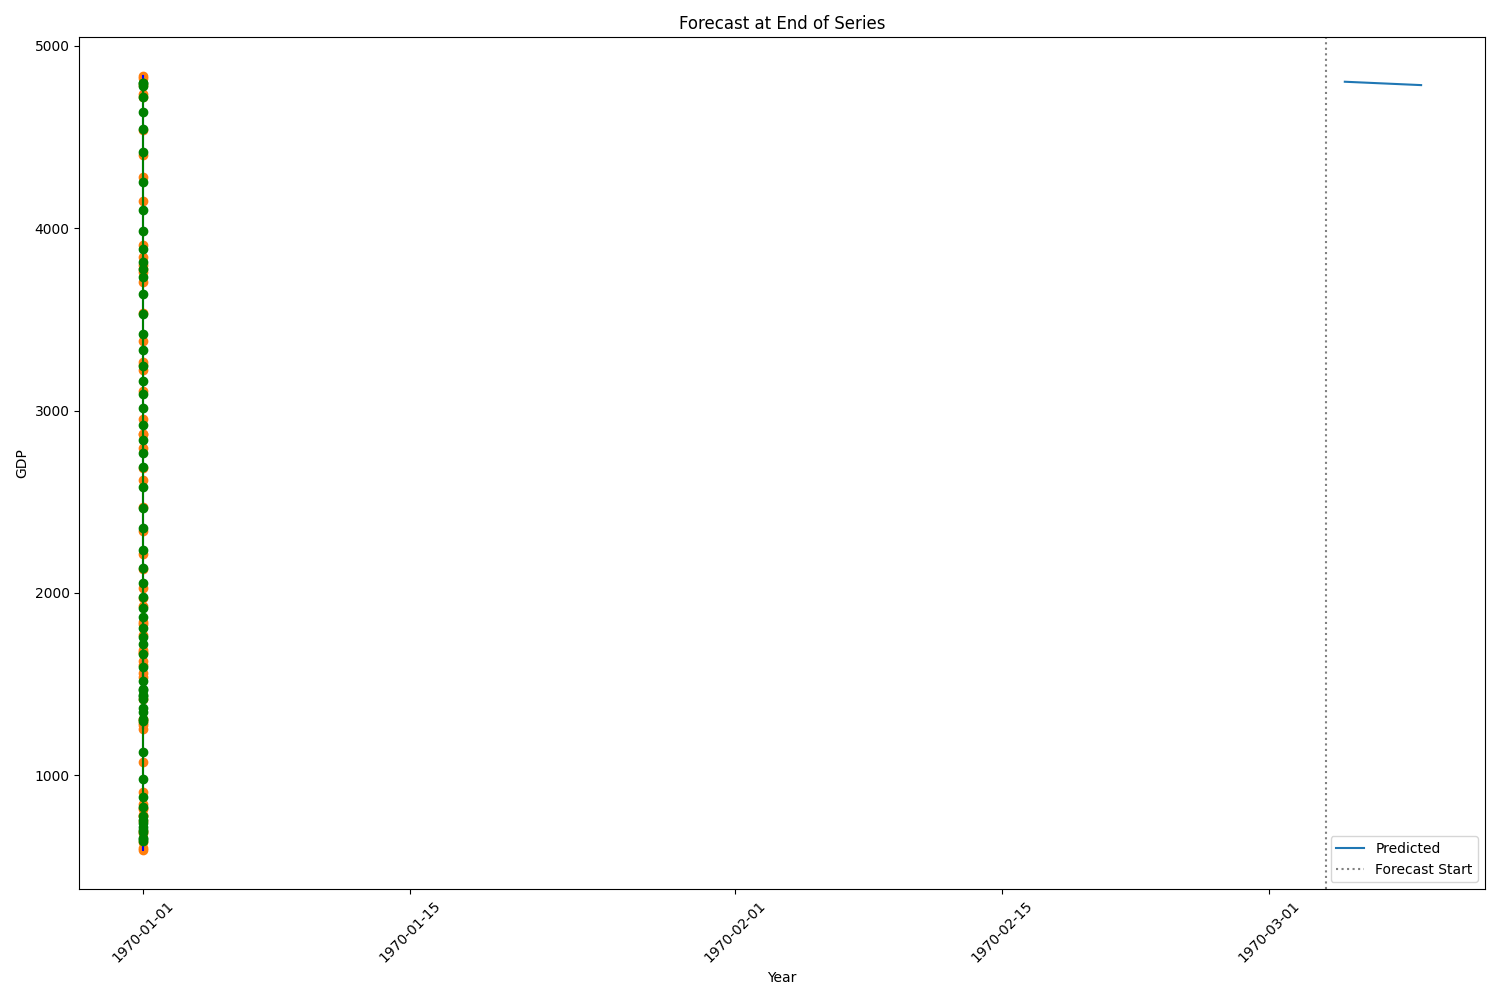
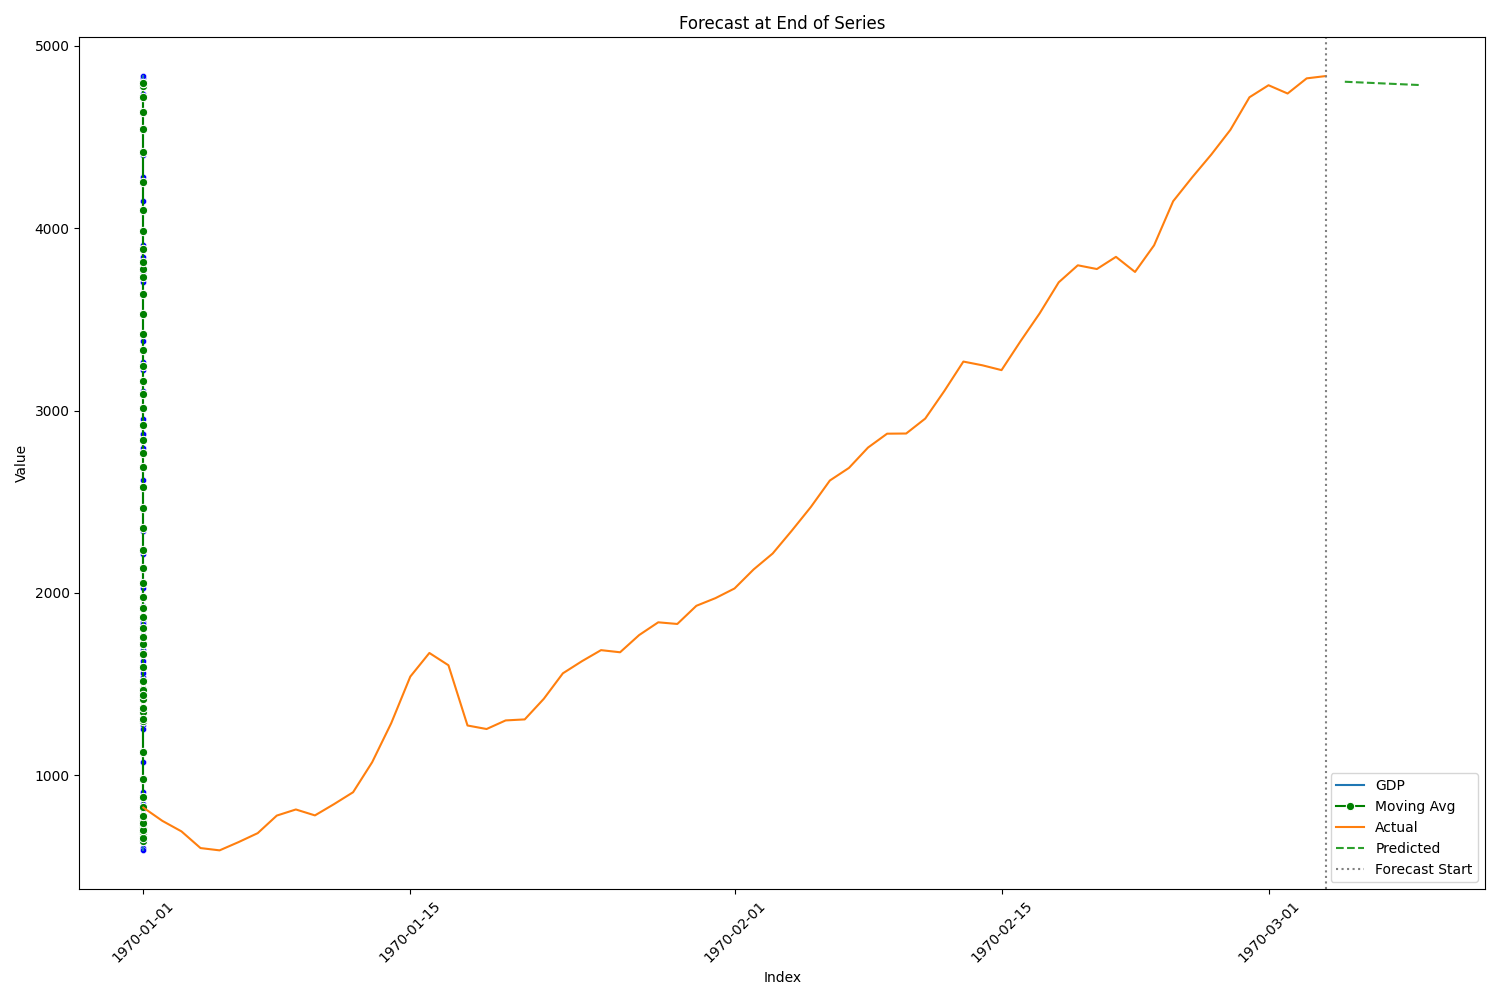
MAModelTracker

diff --git a/src/tsar/c02_statistical_univariate_modeling/r021a_ma_model.py b/src/tsar/c02_statistical_univariate_modeling/r021a_ma_model.py
@@ -240,98 +240,55 @@ class MAModelTracker:
         if show: plt.show()
 
     def plot_predictions_ma_model(self, model_ma: MAModelFMU, series: pd.Series, ax, nsteps: int = 5):
-        """
-        Plot predictions at the end of the actual series.
-
-        Parameters:
-            model_ma: A fitted MAModelFMU instance.
-            series: The actual data as a Series.
-            nsteps: Number of steps to simulate into the future.
-            show: Whether to immediately show the plot.
-        """
-        mvg_avg = series.rolling(
-            window=model_ma.window,
-            min_periods=1,
-            center=True
-        ).mean().ffill().bfill().interpolate()
-
+        """Forecast overlay using seaborn."""
         predictions = model_ma.simulate(
             nsteps=nsteps,
             start_time=series.index[-1],
             start_obs=series.iloc[-1]
         )
-        predictions_index = list(range(len(series.index), len(series.index) + nsteps))
-        predictions_series = pd.Series(predictions, index=predictions_index)
-        sns.lineplot(
-            x=predictions_series.index,
-            y=predictions_series.values,
-            label="Predicted",
-            ax=ax
-        )
-        plt.axvline(len(series) - 1, color='gray', linestyle=':', label='Forecast Start')
-        plt.title("Forecast at End of Series")
-        plt.xlabel("Year")
-        plt.ylabel("GDP")
-        plt.legend()
+        pred_index = list(range(len(series), len(series) + nsteps))
+        pred_series = pd.Series(predictions, index=pred_index)
+
+        sns.lineplot(x=series.index, y=series.values, ax=ax, label="Actual")
+        sns.lineplot(x=pred_series.index, y=pred_series.values, ax=ax, label="Predicted", linestyle="--")
+
+        ax.axvline(x=len(series) - 1, color='gray', linestyle=':', label='Forecast Start')
+        ax.set_title("Forecast at End of Series")
+        ax.set_xlabel("Index")
+        ax.set_ylabel("Value")
+        ax.legend()
 
     def plot_actuals(self, df, ax):
-        """
-        Plot latitude vs longitude.
-
-        Parameters:
-        df (pd.DataFrame): The DataFrame containing hurricane data.
-        ax (matplotlib.axes.Axes): The Axes object to plot on.
-        """
-        ax.scatter(df['Year'], df['GDP'])
-        ax.plot(df['Year'], df['GDP'], linestyle='-', color='blue')
+        """Plot GDP over time using seaborn."""
+        sns.lineplot(x='Year', y='GDP', data=df, ax=ax, label="GDP")
+        sns.scatterplot(x='Year', y='GDP', data=df, ax=ax, color='blue', s=20)
         ax.set_title("GDP over Time")
         ax.set_xlabel("Year")
         ax.set_ylabel("GDP")
 
     def plot_moving_average(self, df, ax):
-        """
-        Plot latitude vs time.
-
-        Parameters:
-        df (pd.DataFrame): The DataFrame containing hurricane data.
-        ax (matplotlib.axes.Axes): The Axes object to plot on.
-        """
-        ax.plot(df['Year'].values, df["GDP"].rolling(
-            window=5,
-            min_periods=1,
-            center=True
-        ).mean().ffill().bfill().interpolate().values, linestyle='-', marker='o', color='green')
-        ax.set_title("GDP vs Time")
-        ax.set_xlabel("Time")
+        """Overlay moving average using seaborn."""
+        sns.lineplot(x='Year', y='GDP_MA', data=df, ax=ax, label="Moving Avg", color='green', marker='o')
+        ax.set_title("GDP with Moving Average")
+        ax.set_xlabel("Year")
         ax.set_ylabel("GDP")
         ax.tick_params(axis='x', rotation=45)
 
     def plot_forecast(self, df, ax):
-        """
-        Plot longitude vs time.
-
-        Parameters:
-        df (pd.DataFrame): The DataFrame containing hurricane data.
-        ax (matplotlib.axes.Axes): The Axes object to plot on.
-        """
-        ax.plot(df['timestamp'], df['Longitude_float'], linestyle='-', marker='o', color='red')
+        """Plot longitude vs time using seaborn."""
+        sns.lineplot(x='timestamp', y='Longitude_float', data=df, ax=ax, marker='o', color='red', label="Forecast")
         ax.set_title("Longitude vs Time")
         ax.set_xlabel("Time")
         ax.set_ylabel("Longitude")
         ax.tick_params(axis='x', rotation=45)
 
     def update_plot(self, df):
-        """
-        Update the plot with new data.
-
-        Parameters:
-        df (pd.DataFrame): The DataFrame containing the current frame of hurricane data.
-        """
-        self.scat = self.ax0.scatter(df['Longitude_float'], df['Latitude_float'])
+        """Update animation frame (still uses matplotlib)."""
+        self.scat = sns.scatterplot(
+            x='Year', y='GDP', data=df, ax=self.ax0, color='blue', s=30
+        ).collections[0]
         self.line, = self.ax0.plot(df['Longitude_float'], df['Latitude_float'], linestyle='-', color='blue')
-        self.lat_line, = self.ax1.plot(df['timestamp'], df['Latitude_float'], linestyle='-', marker='o', color='green')
-        self.lon_line, = self.ax2.plot(df['timestamp'], df['Longitude_float'], linestyle='-', marker='o', color='red')
-        self.artists_list.append([self.scat, self.line, self.lat_line, self.lon_line])
+        self.artists_list.append([self.scat, self.line])
 
     def animate(self, df, output_path):
         """
@@ -375,5 +332,10 @@ class MAModelTracker:
 
 def test_demo():
     df = read_us_gdp_data(f"{path_to_data}/input/gdpus.csv")
+    df['GDP_MA'] = df["GDP"].rolling(
+        window=5,
+        min_periods=1,
+        center=True
+    ).mean().ffill().bfill().interpolate()
     tracker = MAModelTracker()
     tracker.plot(df, f"{path_to_data}/output/ma_model_tracker.png")
